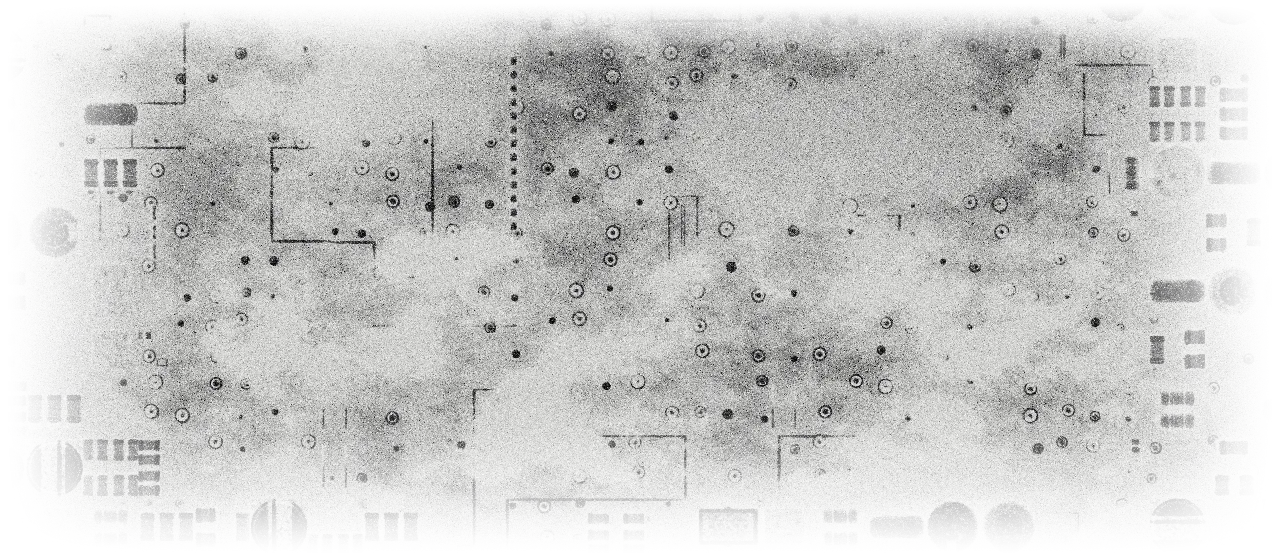
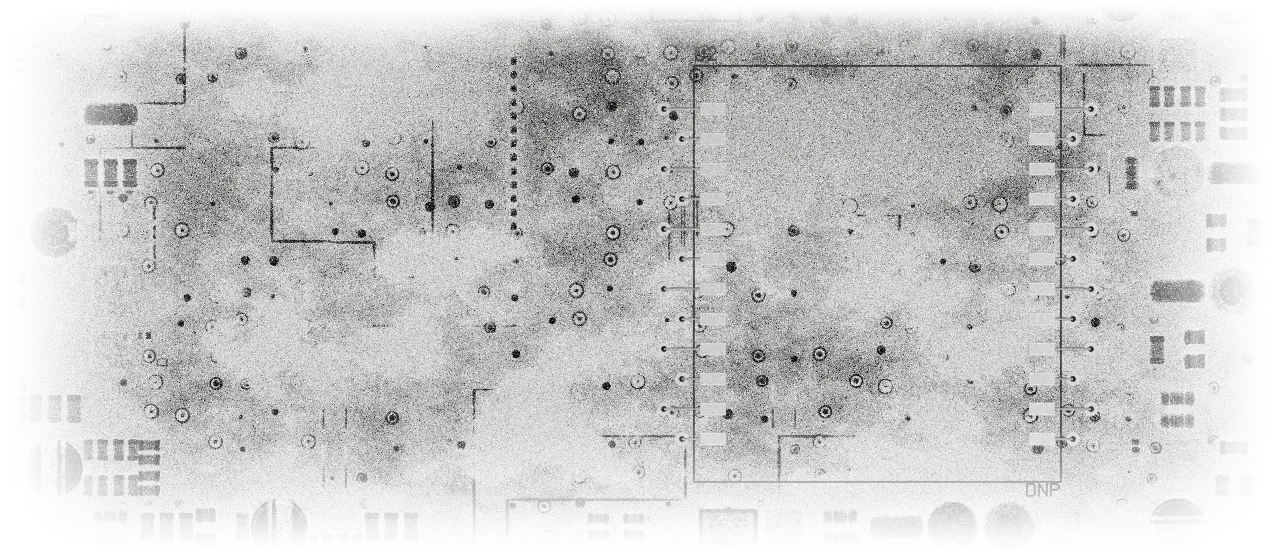
EXECUTION chip not soldered: empty U2 footprint, loose tilted chip

diff --git a/lkg_profile.css b/lkg_profile.css
@@ -256,6 +256,17 @@
 #wrapper .game_grid_widget .game_cell:hover .game_title a,
 #wrapper .formatted .custom-chip:hover h3 { filter: brightness(1.25) drop-shadow(0 0 6px rgba(255,255,255,.25)); }
 
+/* невпаянная микросхема (EXECUTION): посадочное место на плате пустое — оно впечатано в
+   подложку вместе с шелкографией U2/DNP, — а корпус без пайки лежит рядом, сдвинут и
+   повёрнут, одним краем на ногах (chip_loose.webp). Маркировка выгравирована, но питания
+   нет: тускло и без отклика на наведение */
+#wrapper .custom-chip.custom-loose { transform: translate(18px, 26px) rotate(-6deg); }
+#wrapper .custom-chip.custom-loose::before { background-image: url(chip_loose.webp); }
+#wrapper .custom-chip.custom-loose::after { content: none; }
+#wrapper .formatted .custom-chip.custom-loose h3 { opacity: .5; }
+#wrapper .formatted .custom-chip.custom-loose p { opacity: .55; }
+#wrapper .formatted .custom-chip.custom-loose:hover h3 { filter: drop-shadow(0 0 3px #050505); }
+
 /* узкий экран: одна микросхема в ряд, разводка обрезана — видны корпус и ноги */
 @media (max-width: 700px) {
   #wrapper .game_grid_widget,
